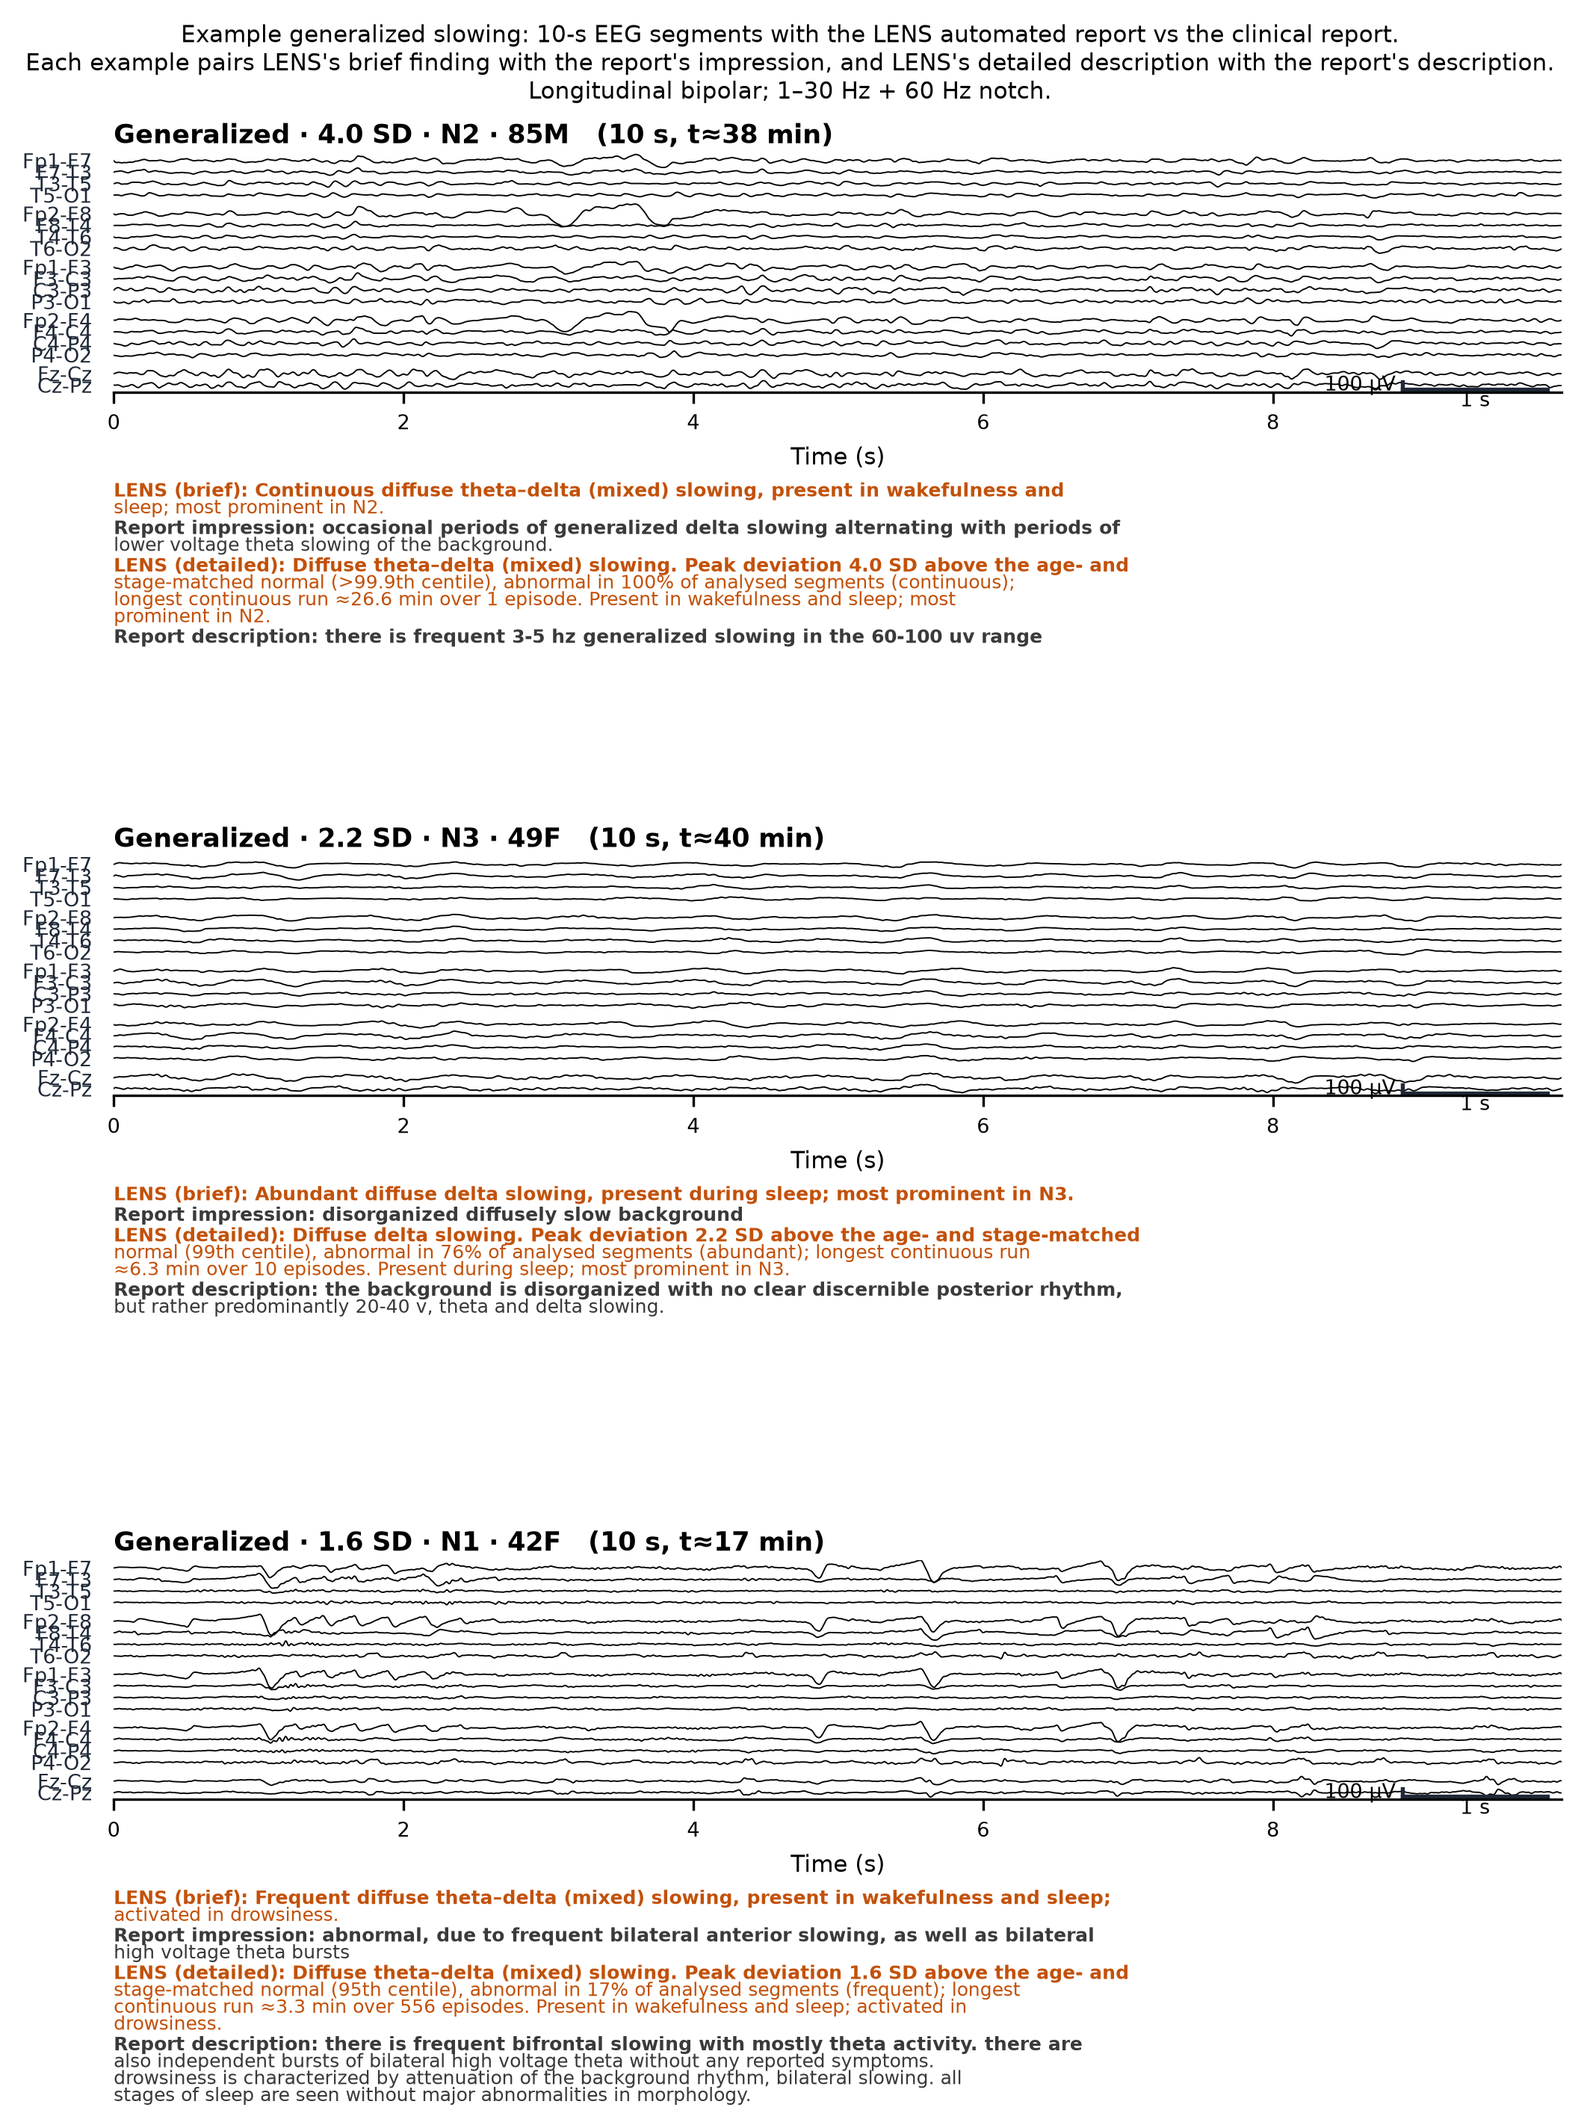
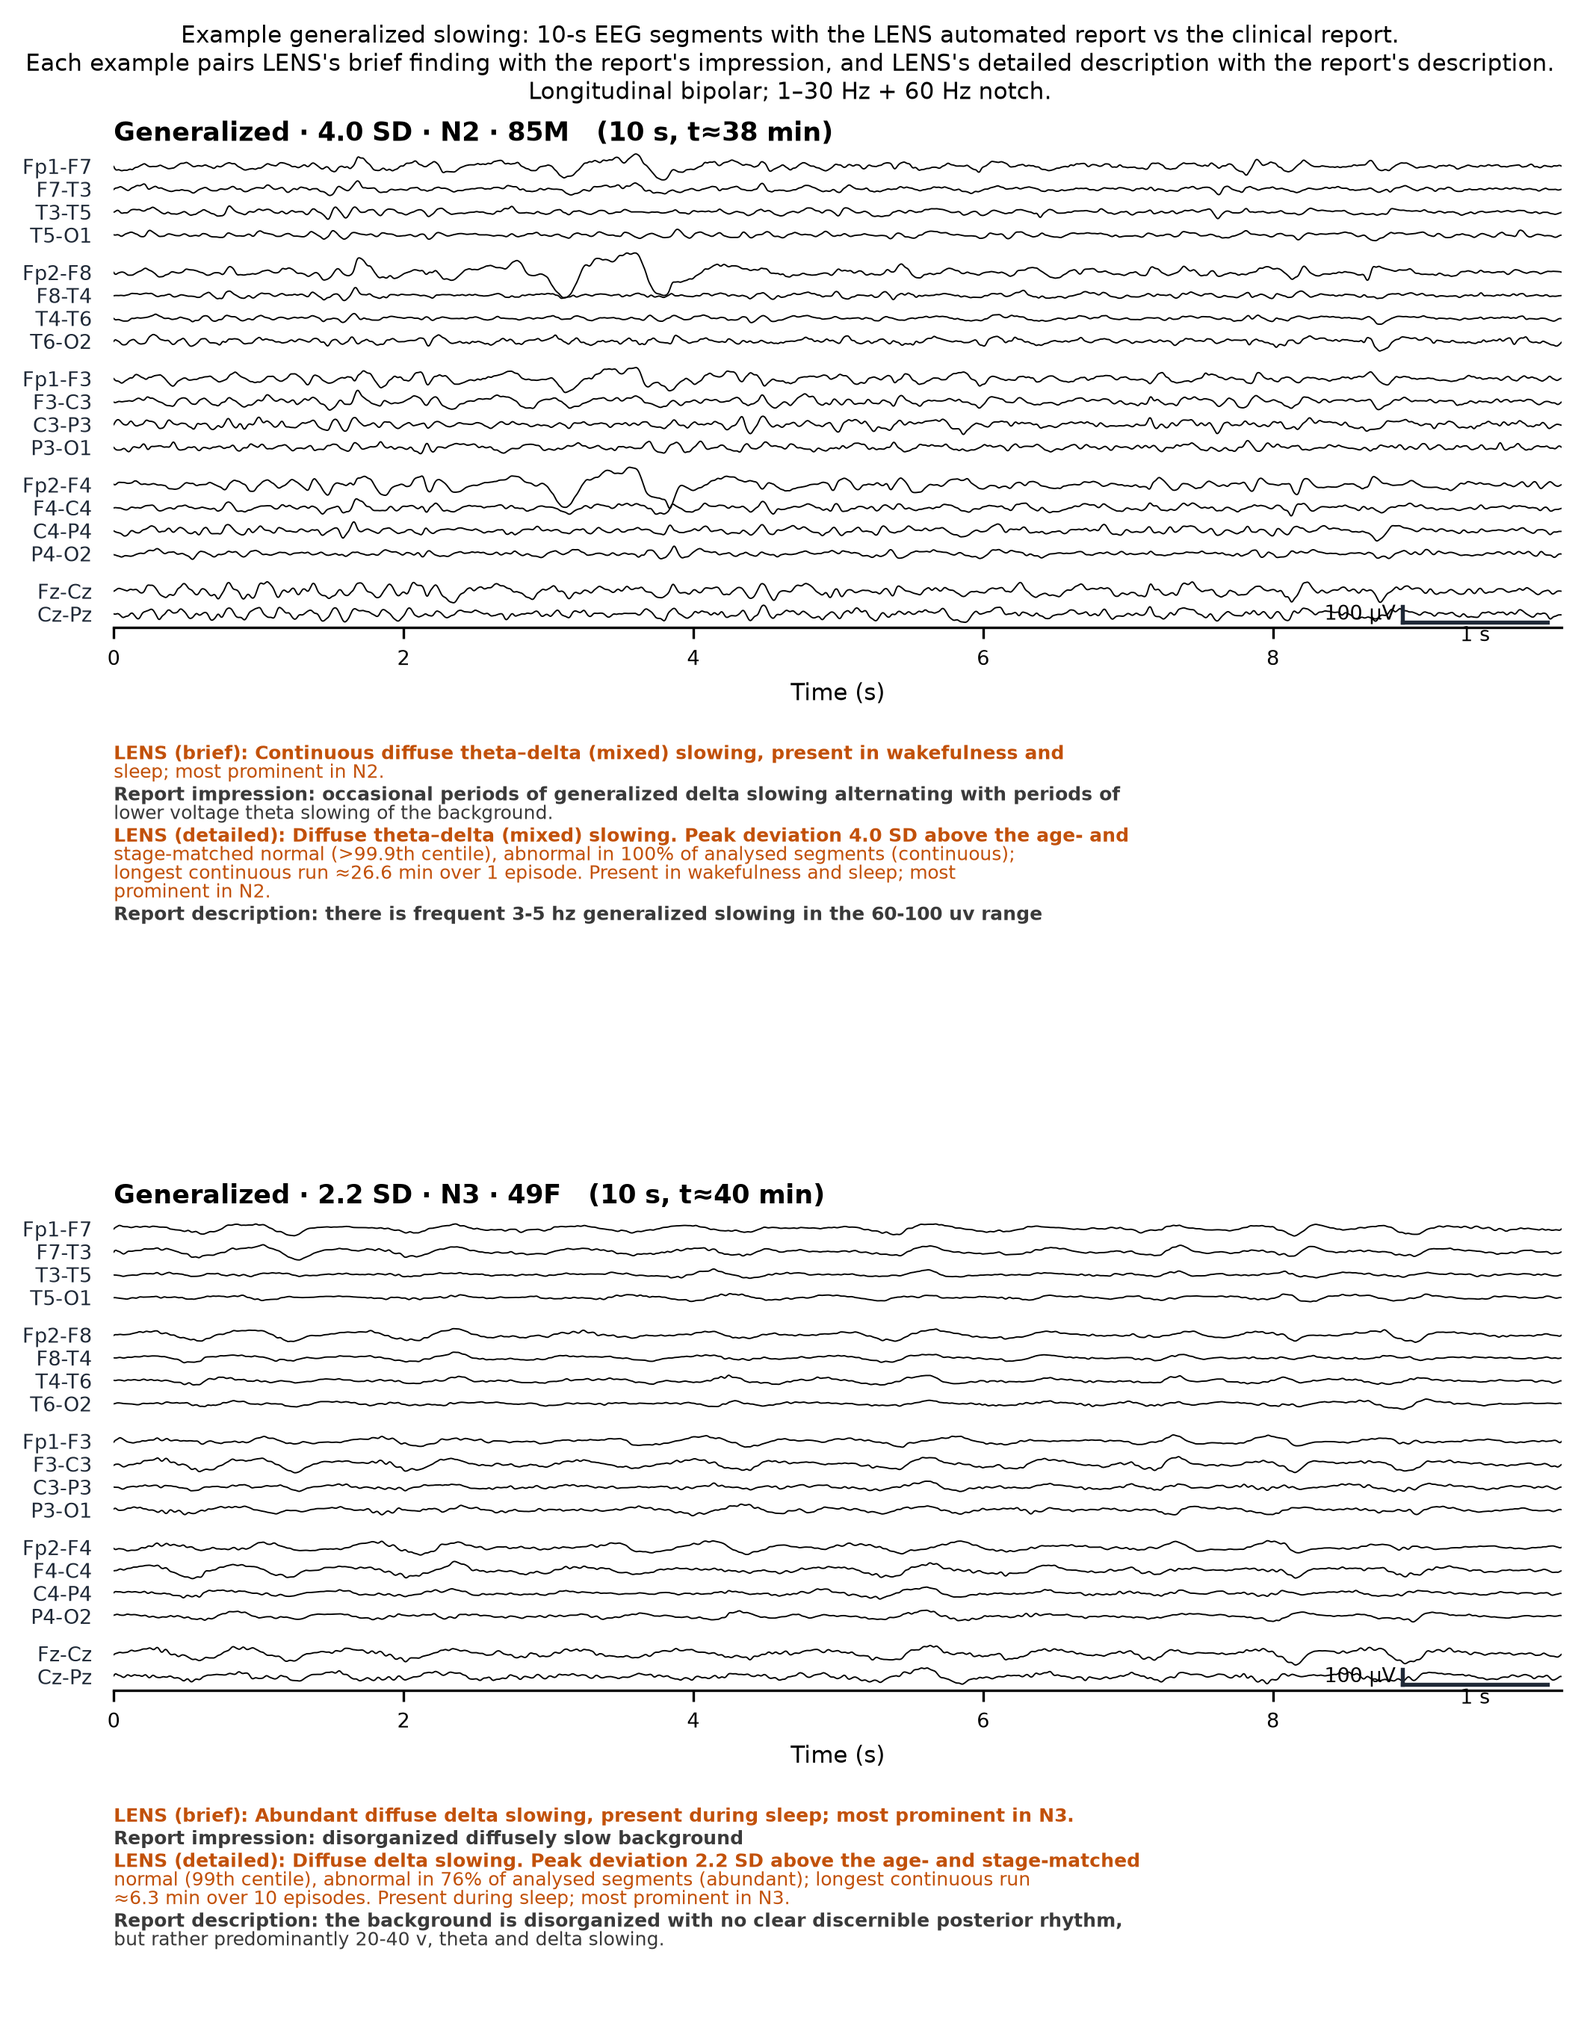
Fix the squashed EEG traces: two panels per figure, printed at full size
The trace panels in Figures 4 and 5 gave 19 derivations 1.56 in of height --
0.082 in per derivation -- so the labels collided and the montage was unreadable.

This dates to b5b6b64, which split the old 3x2 grid into two page-width figures
to fix a DIFFERENT legibility problem: at 13.2 in wide the figure printed at 54%
and the report text was illegible. That fix kept three stacked panels while
nearly halving the page height, and nothing measured the traces afterwards.

Measuring all the options shows the earlier version was no better in print:

  3x2, 13.2x17.4 in   0.164 in/ch on screen, 52% print scale -> 0.085 effective
  3 stacked, 9.4 in   0.082 in/ch on screen, 96% print scale -> 0.079 effective
  3 stacked, 12.6 in  0.145 in/ch on screen, 71% print scale -> 0.103 effective
  2 panels,   9.1 in  0.155 in/ch on screen, 99% print scale -> 0.155 effective

Only reducing the panel count fixes it, because only that lets the figure print
at 100%. Figures 4 and 5 now carry two panels each at ~0.155 in/derivation,
inside the 0.15-0.20 clinical convention, with the report text unshrunk; the
mildest focal and generalized examples move to a new Figure S10 rather than being
dropped.

Two intermediate settings were rejected by inspection rather than arithmetic: at
a 1.15 text ratio the report lines collided, because the block is 5-7 wrapped
lines at a fixed font size, so its share cannot be squeezed to buy trace height.
1.55 is the balance that fits both.
[…]

Changed region(s): [[0.0, 0.5569, 0.9962, 0.9901], [0.0, 0.0, 0.9962, 0.3094], [0.0, 0.3713, 0.9962, 0.526]]

diff --git a/scripts/63_example_eeg_traces.py b/scripts/63_example_eeg_traces.py
@@ -144,16 +144,31 @@ def main():
     # text was unreadable. It cannot be narrowed -- bbox_inches="tight" grows the canvas to fit the text, so
     # shrinking the canvas or enlarging the fonts both make it worse. Split into two single-column figures
     # instead: each is page-width, so nothing is scaled down.
-    panels = [("focal", foc, "s4_examples_eeg_focal.png",
+    # TWO panels per figure, not three. Three stacked panels plus their report text cannot fit a portrait
+    # page at legible size: it gave each trace block 1.56 in for 19 channels (0.082 in/channel), which is why
+    # the derivation labels collided. The earlier 3x2 grid was no better in print -- 0.164 in/channel on
+    # screen, but the figure had to scale to 52% on the page, so 0.085 in/channel effective. Only reducing
+    # the panel count lets the figure print at 100%: 2 panels give 0.147 in/channel, inside the 0.15-0.20
+    # convention, with the report text unshrunk. The third (mildest) example of each axis moves to a
+    # supplementary figure rather than being dropped.
+    panels = [("focal", foc[:2], "s4_examples_eeg_focal.png",
                "Example focal slowing: 10-s EEG segments with the LENS automated report vs the clinical report"),
-              ("generalized", gen, "s4_examples_eeg_generalized.png",
-               "Example generalized slowing: 10-s EEG segments with the LENS automated report vs the clinical report")]
+              ("generalized", gen[:2], "s4_examples_eeg_generalized.png",
+               "Example generalized slowing: 10-s EEG segments with the LENS automated report vs the clinical report"),
+              ("mild", foc[2:3] + gen[2:3], "s4_examples_eeg_mild.png",
+               "Mild examples: 10-s EEG segments with the LENS automated report vs the clinical report")]
     ok = 0
     for kind_name, rows, outname, title in panels:
-        fig = plt.figure(figsize=(7.1, 9.4))
-        outer = fig.add_gridspec(3, 1, hspace=0.38, left=0.075, right=0.985, top=0.930, bottom=0.02)
+        if not rows:
+            continue
+        fig = plt.figure(figsize=(7.1, 4.6 * len(rows)))
+        outer = fig.add_gridspec(len(rows), 1, hspace=0.34, left=0.075, right=0.985,
+                                 top=0.93 if len(rows) > 1 else 0.88, bottom=0.03)
         for rr, r in enumerate(rows):
-            inner = outer[rr, 0].subgridspec(2, 1, height_ratios=[2.5, 1.9], hspace=0.42)
+            # Balance: the report block runs 5-7 wrapped lines at a FIXED font size, so squeezing its
+            # share makes the lines collide (1.15 did). 1.55 fits the longest block with the traces
+            # still at ~0.16 in/channel, inside the clinical convention.
+            inner = outer[rr, 0].subgridspec(2, 1, height_ratios=[3.7, 1.55], hspace=0.34)
             axe = fig.add_subplot(inner[0]); axt = fig.add_subplot(inner[1]); axt.axis("off")
             kind = "Focal" if r.isfoc else "Generalized"
             age = int(r.age) if np.isfinite(r.age) else "?"; sex = str(r.sex)[:1].upper()

diff --git a/scripts/assemble_manuscript_figures.py b/scripts/assemble_manuscript_figures.py
@@ -23,6 +23,9 @@ FIGS = {
     "Figure3_sandor_external.png":   ([f"{STY}/sandor100_slowing.png"], 1, "sandor100_external_validation"),
     "Figure4_example_focal.png":      ([f"{STY}/s4_examples_eeg_focal.png"], 1, "62, 63"),
     "Figure5_example_generalized.png": ([f"{STY}/s4_examples_eeg_generalized.png"], 1, "62, 63"),
+    # Figures 4 and 5 carry two panels each so they print at full size; the mildest focal and
+    # generalized examples move here rather than being dropped.
+    "FigureS10_example_mild.png":     ([f"{STY}/s4_examples_eeg_mild.png"], 1, "62, 63"),
     "Figure6_description_contrast.png": ([f"{STY}/s4_d2.png", f"{STY}/s4_d5.png"], 1, "57"),
     "Figure7_sleep_underreporting.png": ([f"{G}/v4a_wake_sleep.png"], 1, "fig6_sleep_naming (95b stat)"),
     # ---- SUPPLEMENTARY ----

diff --git a/docs/manuscript_draft.md b/docs/manuscript_draft.md
@@ -292,8 +292,8 @@ We present LENS (Lifespan EEG Normative Scoring), which is to our knowledge the 
 - **Figure 1 --- The normative deviation model.** (a) Lifespan percentile growth curves per stage; (b) scalp topography of regional development by age × stage.
 - **Figure 2 --- Detection vs 18 experts and the foundation-model gate (ON-100).** Generalized AUROC 0.961 \[0.914--0.994\] (83% experts under); focal 0.908 \[0.815--0.978\] (53% experts under) (`s0e_occasion_focal.png`).
 - **Figure 3 --- External validation (SAI-100).** LENS vs **SCORE-AI** vs the Morgoth gate vs the 14 individual experts, for focal and generalized slowing, against the true expert-vote majority (ground truth recomputed from the individual expert votes --- see §3.4b).
-- **Figure 4 --- Example focal slowing: EEG segments with the automated report vs the clinical report.** Three exclusively-focal recordings, varying in degree and sleep stage. Each shows a 10-s longitudinal-bipolar EEG paired with two matched comparisons: LENS's brief finding against the clinical report's *impression*, and LENS's detailed description against the report's *description*, using the actual (de-identified) report text. The displayed window is the segment where the localized (claimed-region) deviation peaks, within the dominant sleep stage; it is an illustrative peak, not a typical epoch. Examples are restricted to clearly-lateralized recordings (|left−right asymmetry| ≥ 1.5 SD) so the displayed segment reliably matches the localization.
-- **Figure 5 --- Example generalized slowing: EEG segments with the automated report vs the clinical report.** As Figure 4, for three exclusively-generalized recordings; the displayed window is the segment of highest whole-head deviation. Splitting the examples across two page-width figures keeps the report text legible in print, which a combined 3×2 grid did not.
+- **Figure 4 --- Example focal slowing: EEG segments with the automated report vs the clinical report.** Two exclusively-focal recordings (marked and moderate); the mildest example is **Figure S10**. Two panels per figure rather than three so the figure prints at full size: three stacked panels plus their report text left each trace block 0.08 in per derivation, which is why the derivation labels collided. Each shows a 10-s longitudinal-bipolar EEG paired with two matched comparisons: LENS's brief finding against the clinical report's *impression*, and LENS's detailed description against the report's *description*, using the actual (de-identified) report text. The displayed window is the segment where the localized (claimed-region) deviation peaks, within the dominant sleep stage; it is an illustrative peak, not a typical epoch. Examples are restricted to clearly-lateralized recordings (|left−right asymmetry| ≥ 1.5 SD) so the displayed segment reliably matches the localization.
+- **Figure 5 --- Example generalized slowing: EEG segments with the automated report vs the clinical report.** As Figure 4, for two exclusively-generalized recordings (the mildest is **Figure S10**); the displayed window is the segment of highest whole-head deviation. Splitting the examples across two page-width figures keeps the report text legible in print, which a combined 3×2 grid did not.
 - **Figure 6 --- Description validated by contrast (condensed).** Laterality tracks the reported side; the slowing signal persists across sleep stages (`s4_d5.png`).
 - **Figure 7 --- Sleep-confined deviations are less often named in reports.** Fraction of reports that name slowing, split by where the slowing is visible: 74.8% when visible awake vs 53.6% when visible only in sleep (base rate 40.0%). The within-subject deviation analysis behind this --- cases deviate above stage-matched normals in N2/N3, undiminished on spindle-verified N2 --- is in §3.8.
 
@@ -329,7 +329,7 @@ contributors before submission.\]*
 
 ## Data and code availability
 
-Code is released as the open-source package `bdsp-core/morgoth-slowing-growth-curves`, with a numbered, reproducible pipeline (three tiers --- `results` / `features` / `scratch` --- via ). We publish per-recording labels (report-derived flags, corrected SAP labels, description descriptors) with provenance. Raw EEG and free-text report content are not redistributed; they are available via BDSP credentialed access. The de-identified derived data and code are published on BDSP as **LENS v1.0.0** (<https://bdsp.io/content/q8qpxsk3sgq57vkm5abp/1.0.0/>; version DOI [10.60508/7060-qq30](https://doi.org/10.60508/7060-qq30), concept DOI [10.60508/wt7m-f443](https://doi.org/10.60508/wt7m-f443)) under the BDSP Credentialed Health Data License and Data Use Agreement; the code repository (<https://github.com/bdsp-core/morgoth-slowing-growth-curves>) is licensed CC BY-NC 4.0.
+Code is released as the open-source package `bdsp-core/morgoth-slowing-growth-curves`, with a numbered, reproducible pipeline (three tiers: `results`, `features` and `scratch`). We publish per-recording labels (report-derived flags, corrected SAP labels, description descriptors) with provenance. Raw EEG and free-text report content are not redistributed; they are available via BDSP credentialed access. The de-identified derived data and code are published on BDSP as **LENS v1.0.0** (<https://bdsp.io/content/q8qpxsk3sgq57vkm5abp/1.0.0/>; version DOI [10.60508/7060-qq30](https://doi.org/10.60508/7060-qq30), concept DOI [10.60508/wt7m-f443](https://doi.org/10.60508/wt7m-f443)) under the BDSP Credentialed Health Data License and Data Use Agreement; the code repository (<https://github.com/bdsp-core/morgoth-slowing-growth-curves>) is licensed CC BY-NC 4.0.
 
 ## References
 

diff --git a/docs/supplementary_material.md b/docs/supplementary_material.md
@@ -16,6 +16,7 @@ Supplementary methods, robustness analyses and negative results supporting the m
 - **Figure S8 --- Description panels D1/D3/D4/D6** (type/amount, anterior--posterior, persistence, generated-word concordance).
 - **Figure S7 --- Why the two detection axes need different read-outs** (localized focal).
 - **Figure S9 --- Severity is a null result** .
+- **Figure S10 --- Mild example recordings: EEG segments with the automated report vs the clinical report.** The mildest focal and generalized examples, in the same format as Figures 4 and 5, which carry two panels each so that each prints at full size.
 - **Figure S3 --- van Putten indices vs LENS vs the Morgoth gate on the clean ON-100 panel** (ROC per axis, expert-majority labels). LENS leads on generalized slowing and ties the foundation-model gate on focal --- generalized 0.961, focal 0.908 --- outperforming the best hand-crafted index by +0.14 / +0.08 and edging the foundation-model gate.
 
 - **Figure S4 --- Scalp topography of the theta/alpha ratio (TAR) by age × sleep stage**. The TAR companion to Figure 1b, confirming that the regional development pattern is not specific to relative delta.

diff --git a/REPRODUCE.md b/REPRODUCE.md
@@ -118,6 +118,7 @@ Figures are assembled into the submission set by
 | **Figure S7** localized focal | `49_occasion_allstage_localized.py` | `occasion_features.parquet` | `figures/story/s0_occasion_ours_v4_focal.png` |
 | **Figure S8** description panels (D1–D6) | `57_description_panels.py`, `58_description_words.py` | `description_recording.parquet` | `figures/story/s4_d{1,3,4,6}.png` |
 | **Figure S9** severity null | `109_severity_null_v6.py` | `occasion_features.parquet` | `figures/growth_v2/severity_recalibrated.png` |
+| **Figure S10** mild examples | `62_example_reports_panel.py`, `63_example_eeg_traces.py` | `description_recording.parquet`, `data/manifest/report_manifest_v6.parquet`, source EDFs (S3) | `figures/story/s4_examples_eeg_mild.png` |
 | **Table 1** cohort | `table1_sap.py` | `labels_unified.parquet`, manifest | `results/table1.md` |
 | **Table S1** van Putten full-coverage | `recompute_vanputten_fullcov.py` | `occasion_features.parquet` | `results/vanputten_fullcoverage.md` |
 | **Table S2** human ceiling | `recompute_human_ceiling_v6.py` | ON-100 panel votes | `results/table5_human_ceiling.md` |

diff --git a/figures/manuscript/MANIFEST.md b/figures/manuscript/MANIFEST.md
@@ -9,6 +9,7 @@ Built by `scripts/assemble_manuscript_figures.py`: multi-panel figures are compo
 | `Figure3_sandor_external.png` | 1 (sandor100_slowing.png) | `scripts/sandor100_external_validation` |
 | `Figure4_example_focal.png` | 1 (s4_examples_eeg_focal.png) | `scripts/62, 63` |
 | `Figure5_example_generalized.png` | 1 (s4_examples_eeg_generalized.png) | `scripts/62, 63` |
+| `FigureS10_example_mild.png` | 1 (s4_examples_eeg_mild.png) | `scripts/62, 63` |
 | `Figure6_description_contrast.png` | 2 (s4_d2.png, s4_d5.png) | `scripts/57` |
 | `Figure7_sleep_underreporting.png` | 1 (v4a_wake_sleep.png) | `scripts/fig6_sleep_naming (95b stat)` |
 | `FigureS1_architecture.png` | 1 (architecture.png) | `scripts/architecture_diagram` |
